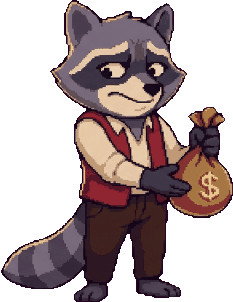
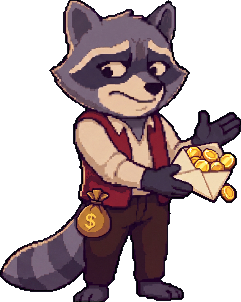
feat(raccoon-heist): swap rocco to the belt-pouch art

Changed region(s): [[0.0, 0.0, 1.0, 1.0]]

diff --git a/src/components/raccoon-heist/data.ts b/src/components/raccoon-heist/data.ts
@@ -17,10 +17,10 @@ const hd = (id: string, frames: number, cell: [number, number], fps = 1): Sheet 
 
 export const SHEETS = {
   // Key-art Rocco only. Never rocco_cast / rocco_shrug.
-  rocco_hero: hd('rocco_hero', 1, [239, 302]),
+  rocco_hero: hd('rocco_hero', 1, [243, 302]),
   rocco_fight: hd('rocco_fight', 1, [289, 302]),
-  rocco_coins: hd('rocco_coins', 1, [213, 302]),
-  rocco_payup: hd('rocco_payup', 1, [233, 302]),
+  rocco_coins: hd('rocco_coins', 1, [240, 302]),
+  rocco_payup: hd('rocco_payup', 1, [241, 302]),
   rat_dealer: hd('rat_dealer', 1, [202, 317]),
   rat_thug: hd('rat_thug', 1, [177, 303]),
   rats_right_pair: hd('rats_right_pair', 1, [316, 361]),
